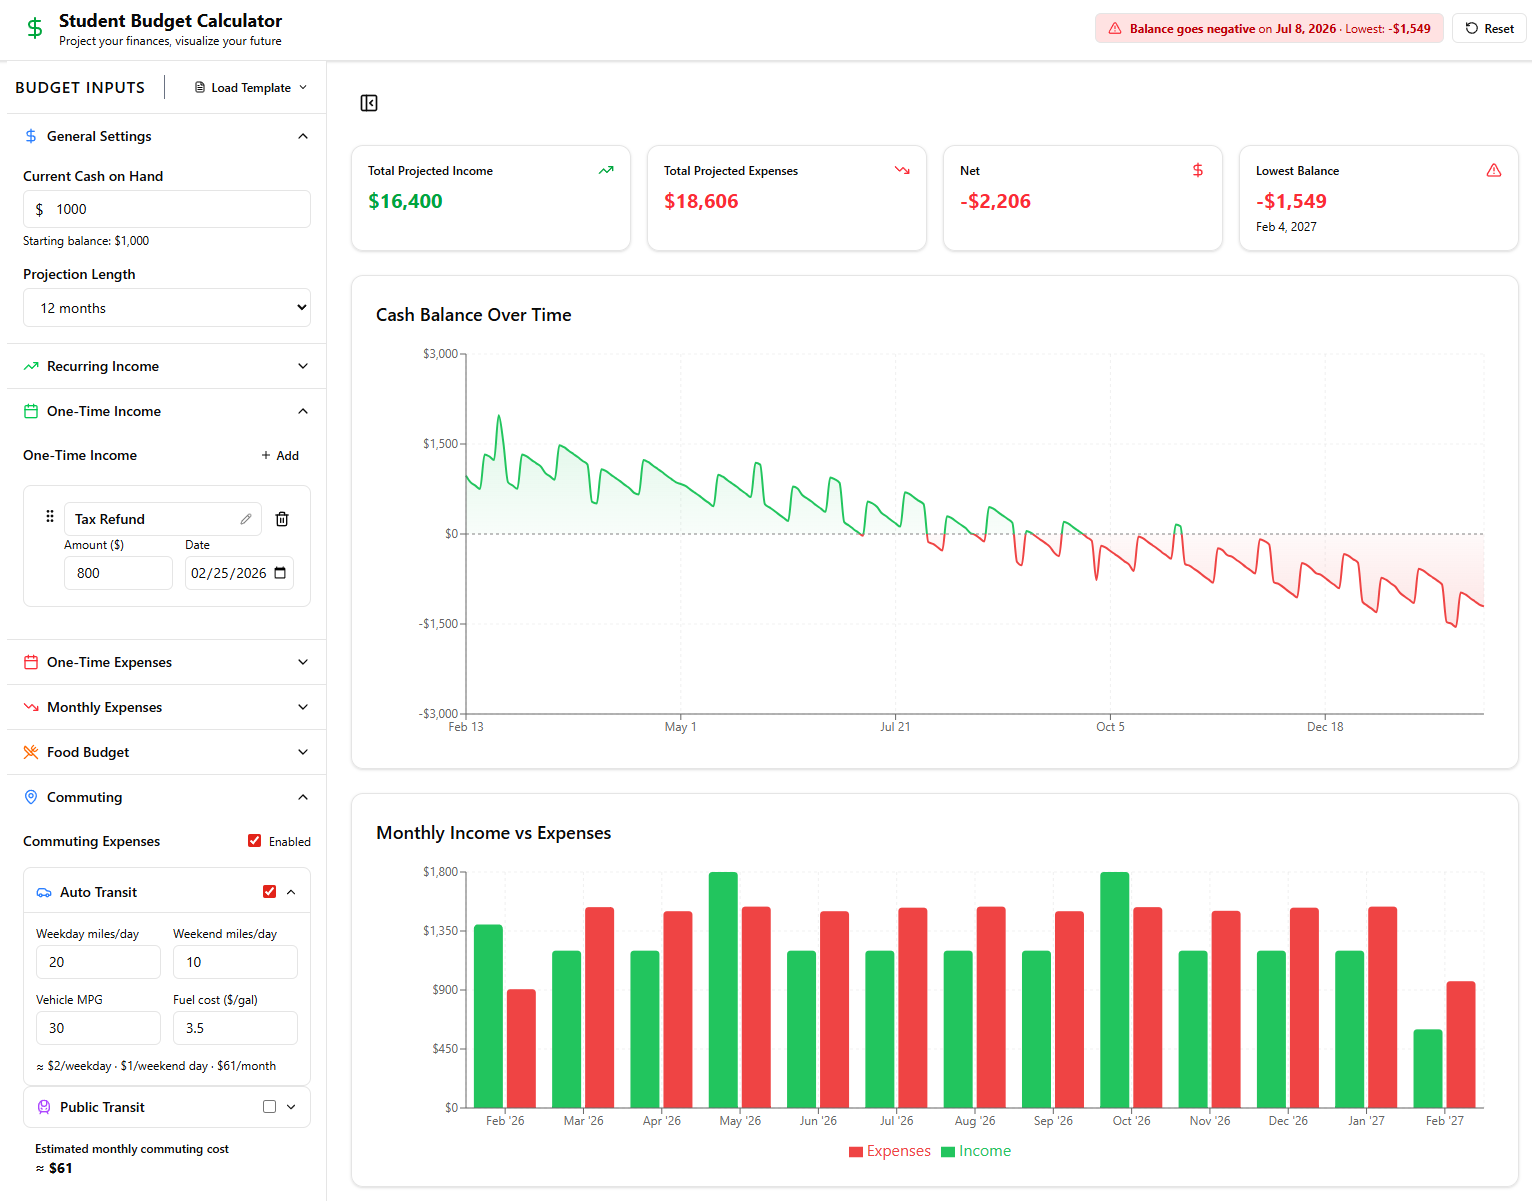
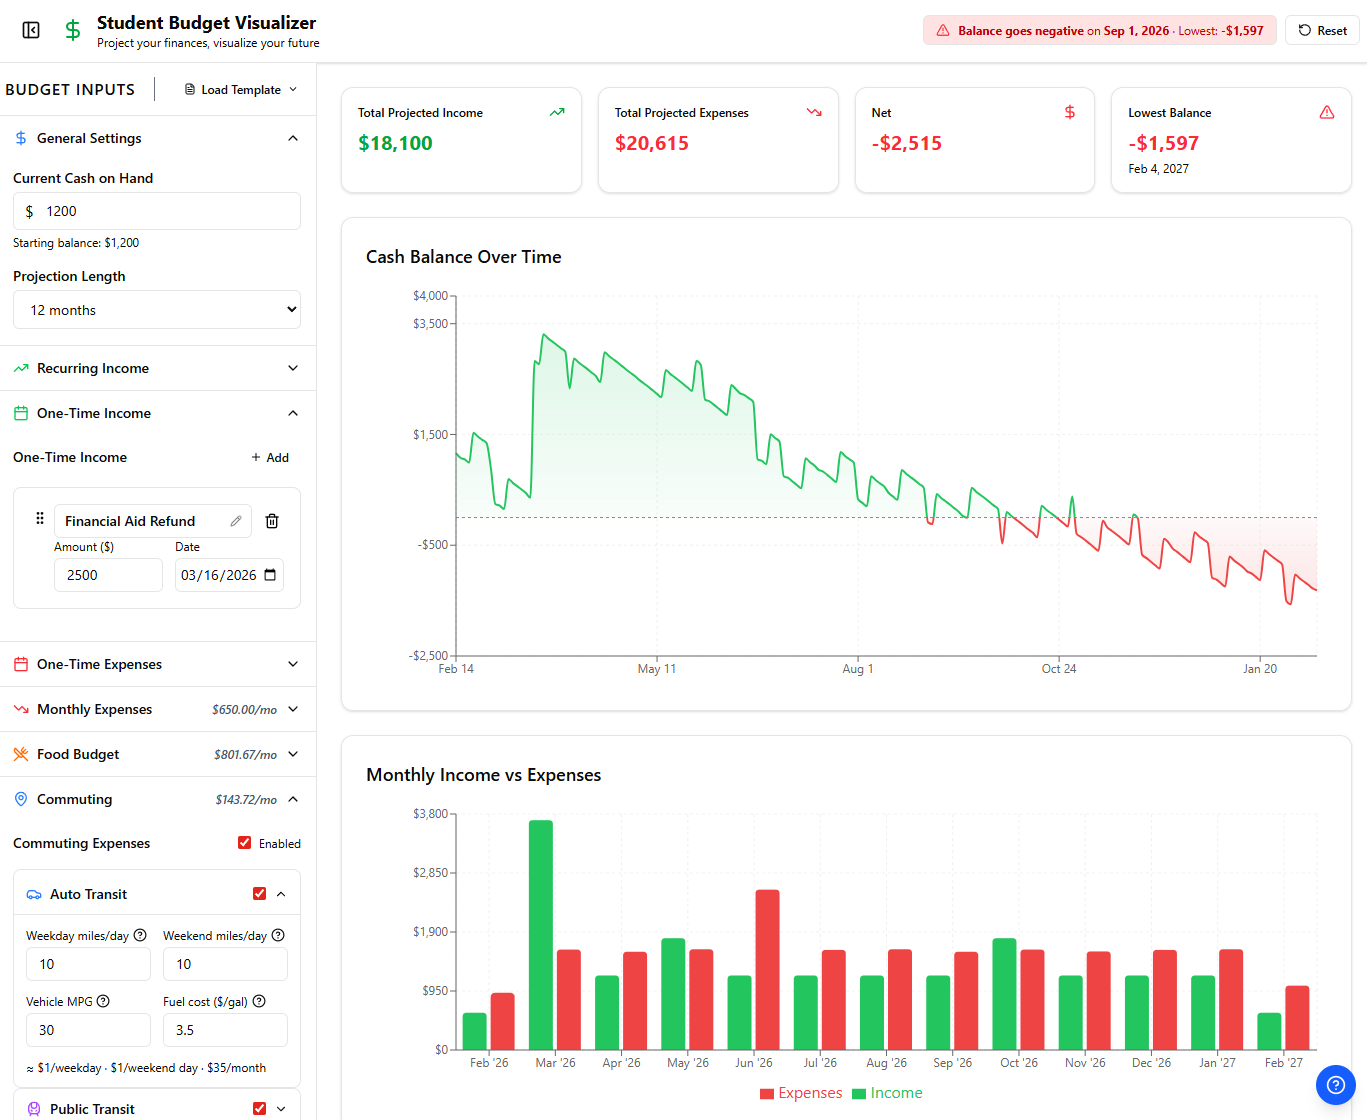
README & Example Image

diff --git a/README.md b/README.md
@@ -1,7 +1,7 @@
 # WIP - Student Budget Visualizer
 ### THIS IS A WORK IN PROGRESS WITH HEAVY RELIANCE ON AI CODE GENERATION. EXPECT BUGS AND INCONSISTENCIES. USE WITH CAUTION.
 
-A visual budget planning tool designed for students to track income, expenses, and project their financial future. See your cash balance fluctuate over time with interactive charts and get warnings before you run out of money.
+A visual budget planning tool designed for students, or anyone, to track income, expenses, and project their financial future. See your cash balance fluctuate over time with interactive charts and get warnings before you run out of money.
 
 ![Student Budget Visualizer](https://img.shields.io/badge/React-19.2-blue) ![TypeScript](https://img.shields.io/badge/TypeScript-5.9-blue) ![Vite](https://img.shields.io/badge/Vite-7.3-purple)
 
@@ -16,34 +16,36 @@ A visual budget planning tool designed for students to track income, expenses, a
 - **One-Time Income**: Tax refunds, stipends, gifts, and other non-recurring income
 
 ### 💸 Expense Management
-- **Monthly Expenses**: Rent, utilities, subscriptions with automatic monthly recurrence
+- **Monthly Expenses**: Rent, utilities, subscriptions, loans, etc. with automatic monthly recurrence
 - **One-Time Expenses**: Tuition payments, textbooks, electronics
 - **Food Budget**: Separate weekday meal costs (breakfast/lunch/dinner/snacks) and weekend daily totals
 - **Commuting Costs**: 
   - Auto transit with miles driven, MPG, and fuel cost calculations
-  - Public transit with weekly pass costs
+  - Public transit with weekly pass cost
 
 ### 📊 Visual Projections
-- **Cash Balance Chart**: Interactive time-series chart showing daily balance over your projection period
-- **Income vs Expense Chart**: Monthly aggregated bar chart comparing total income and expenses
+- **Cash Balance Over Time Chart**: Interactive time-series chart showing daily balance over your projection period
+- **Monthly Income vs Expenses Chart**: Monthly aggregated bar chart comparing total income and expenses
 - **Warning System**: Header banner alerts you when projections show negative balance, invalid dates, or other issues
 
 ### 💾 Data Persistence
 - All data automatically saved to browser localStorage
-- No account needed, no server required, run entirely in your browser
+- No account needed, no server required, runs entirely in your browser
 - Reset to defaults with one click
 
 ## Usage Tips
 ### DO NOT RELY ON FOR ACTUAL BUDGETING DECISIONS WITHOUT DOUBLE-CHECKING PROJECTIONS. THIS IS A WIP AND WILL CONTAIN BUGS.
 
-1. **Use the Templates**: Start with one of the templates to see how everything works (Button in top-right corner)
+1. **Templates**: Start with one of the templates to see how everything works ("Load Template" Button)
 2. **Start Simple**: Begin with just your initial balance and one income source
 3. **Add Expenses Gradually**: Start with big recurring costs (rent, utilities), then fill in details
 4. **Use Drag Handles**: Reorder items by grabbing the grip icon (⋮⋮) on the left of each card
 5. **Multiple Sections Open**: Click any section header to expand/collapse
 6. **Projection Length**: Adjust how many months ahead to calculate (3-24 months)
 7. **Watch the Warning Banner**: The header shows an alert if your balance will go negative or if dates are invalid
-8. **Reset Anytime**: Use the reset button in the top-right to restore default values
+8. **Help Tooltips**: Hover over help icons (?) next to input fields for explanations
+9. **Help Button**: Click the blue help button (bottom-right corner) for a full guide
+10. **Reset Anytime**: Use the reset button in the top-right to restore default values
 
 ## How It Works
 
@@ -67,9 +69,10 @@ The entire state is managed by **Zustand** with localStorage persistence, so you
 
 - **React 19** + **TypeScript** - Type-safe component architecture
 - **Vite 7** - Dev server and build tool
-- **Tailwind CSS 4** - Utility-first styling with CSS variables for theming
-- **Recharts 3** - Composable charting library for React
-- **Zustand 5** - Lightweight state management with middleware
+- **Tailwind CSS 4** - Styling with CSS variables for theming
+- **Recharts 3** - Charting library for React
+- **Zustand 5** - Lightweight state management
+- **Radix UI** - Component primitives (Dialog, Tooltip)
 - **dnd-kit** - Drag-and-drop toolkit
 - **date-fns** - Date utility library
 - **Lucide React** - Icon set
@@ -145,17 +148,21 @@ src/
 │   │   └── IncomeExpenseChart.tsx    # Monthly bar chart comparing income vs expenses
 │   ├── dashboard/
 │   │   └── SummaryCards.tsx          # Summary statistics and warning banners
-│   └── inputs/
-│       ├── DebouncedNumberInput.tsx  # Debounced numeric input component
-│       ├── EditableLabel.tsx         # Inline editable text labels
-│       ├── FoodBudgetForm.tsx        # Food expense configuration
-│       ├── IncomeForm.tsx            # Recurring income (jobs) form
-│       ├── InitialBalanceForm.tsx    # Starting balance and projection length
-│       ├── OneTimeExpenseForm.tsx    # One-time expense entries
-│       ├── OneTimeIncomeForm.tsx     # One-time income entries
-│       ├── RecurringExpenseForm.tsx  # Monthly recurring expenses
-│       ├── SortableItem.tsx          # Drag-and-drop wrapper with dnd-kit
-│       └── TransportForm.tsx         # Transportation cost configuration
+│   ├── inputs/
+│   │   ├── DebouncedNumberInput.tsx  # Debounced numeric input component
+│   │   ├── EditableLabel.tsx         # Inline editable text labels
+│   │   ├── FoodBudgetForm.tsx        # Food expense configuration
+│   │   ├── IncomeForm.tsx            # Recurring income (jobs) form
+│   │   ├── InitialBalanceForm.tsx    # Starting balance and projection length
+│   │   ├── OneTimeExpenseForm.tsx    # One-time expense entries
+│   │   ├── OneTimeIncomeForm.tsx     # One-time income entries
+│   │   ├── RecurringExpenseForm.tsx  # Monthly recurring expenses
+│   │   ├── SortableItem.tsx          # Drag-and-drop wrapper with dnd-kit
+│   │   └── TransportForm.tsx         # Transportation cost configuration
+│   ├── ConfirmDialog.tsx             # Confirmation dialog for destructive actions
+│   ├── HelpModal.tsx                 # Full help guide with feature explanations
+│   ├── RotateDevicePrompt.tsx        # Mobile landscape mode prompt
+│   └── Tooltip.tsx                   # Help tooltip component
 ├── engine/
 │   ├── types.ts         # TypeScript interfaces for all data models
 │   └── projection.ts    # Day-by-day financial simulation logic
@@ -179,9 +186,11 @@ index.html               # Vite HTML entry
 - [ ] Add mobile support/variable width handling for smaller screens. Currently does not work on narrow viewports.
   - [x] Added a "rotate device prompt" for narrow widths to force landscape mode on mobile. Works well for now.
 - [x] Add end date for jobs (Recurring Income) for things like short term gigs or summer jobs.
-- [ ] Add help tooltips explaining each input field and how it affects projections.
-- [ ] Add help modal for new users with a quick walkthrough of features.
+- [x] Add help tooltips explaining each input field and how it affects projections.
+- [x] Add help modal for new users with a quick walkthrough of features.
 - [ ] Add export projection data as CSV
+- [ ] Add save slots so users can have multiple budgets (e.g. "Current Semester", "Next Semester", "Summer")
+- [ ] Monthly expense end dates
 
 ## License
 
